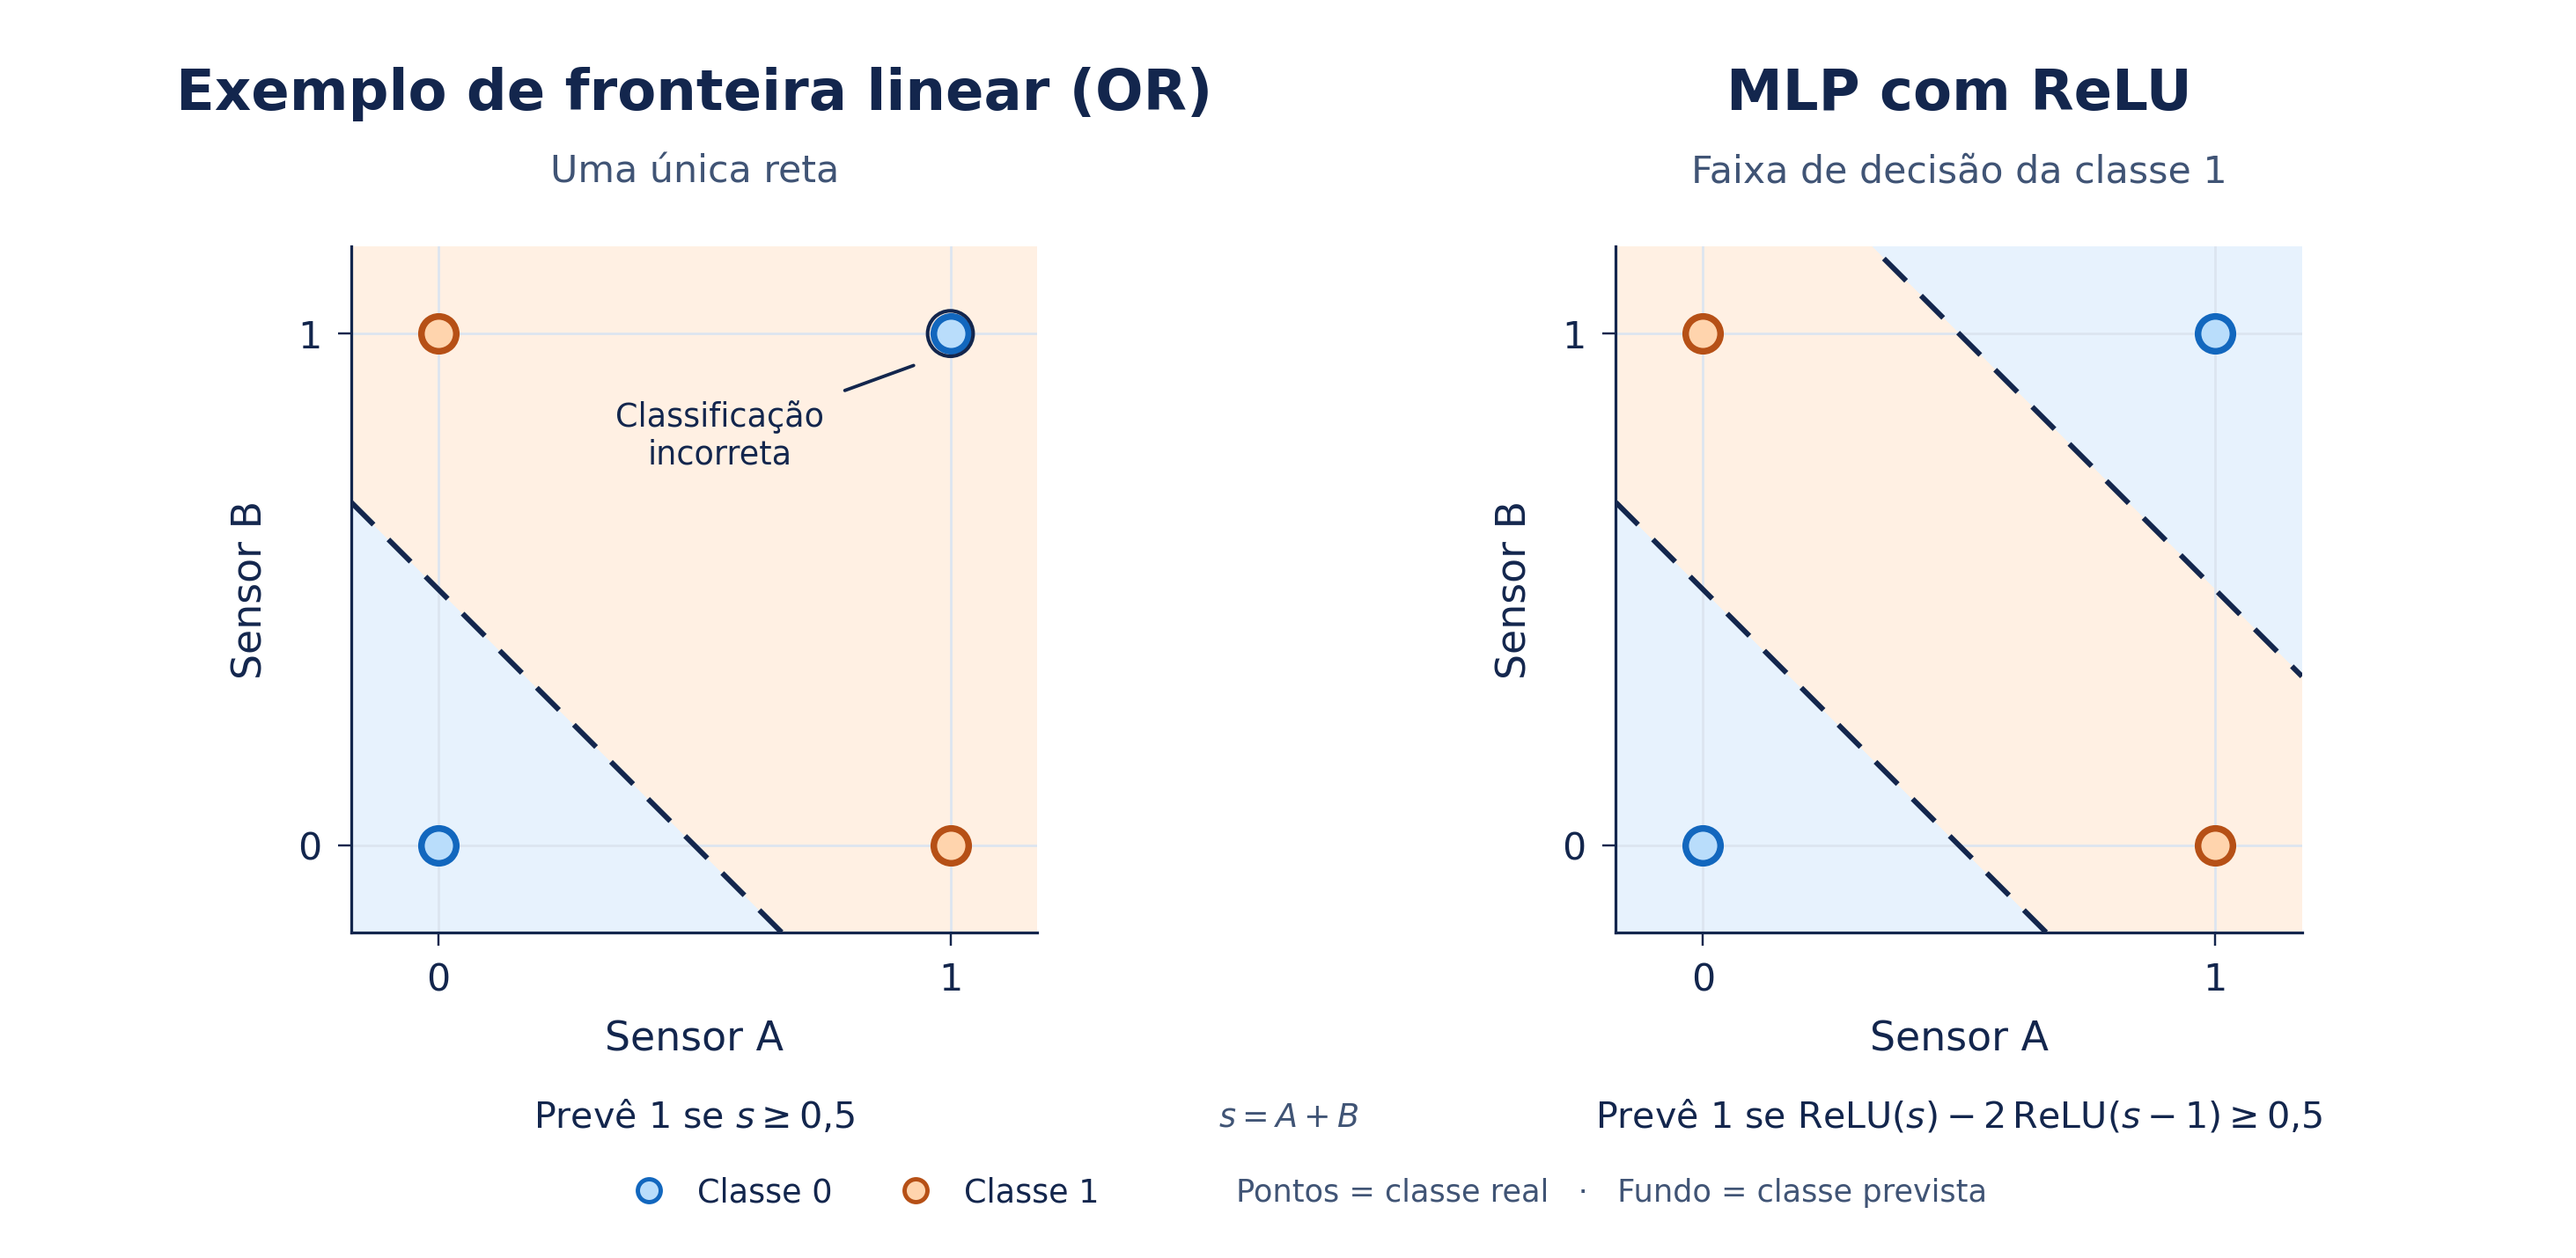
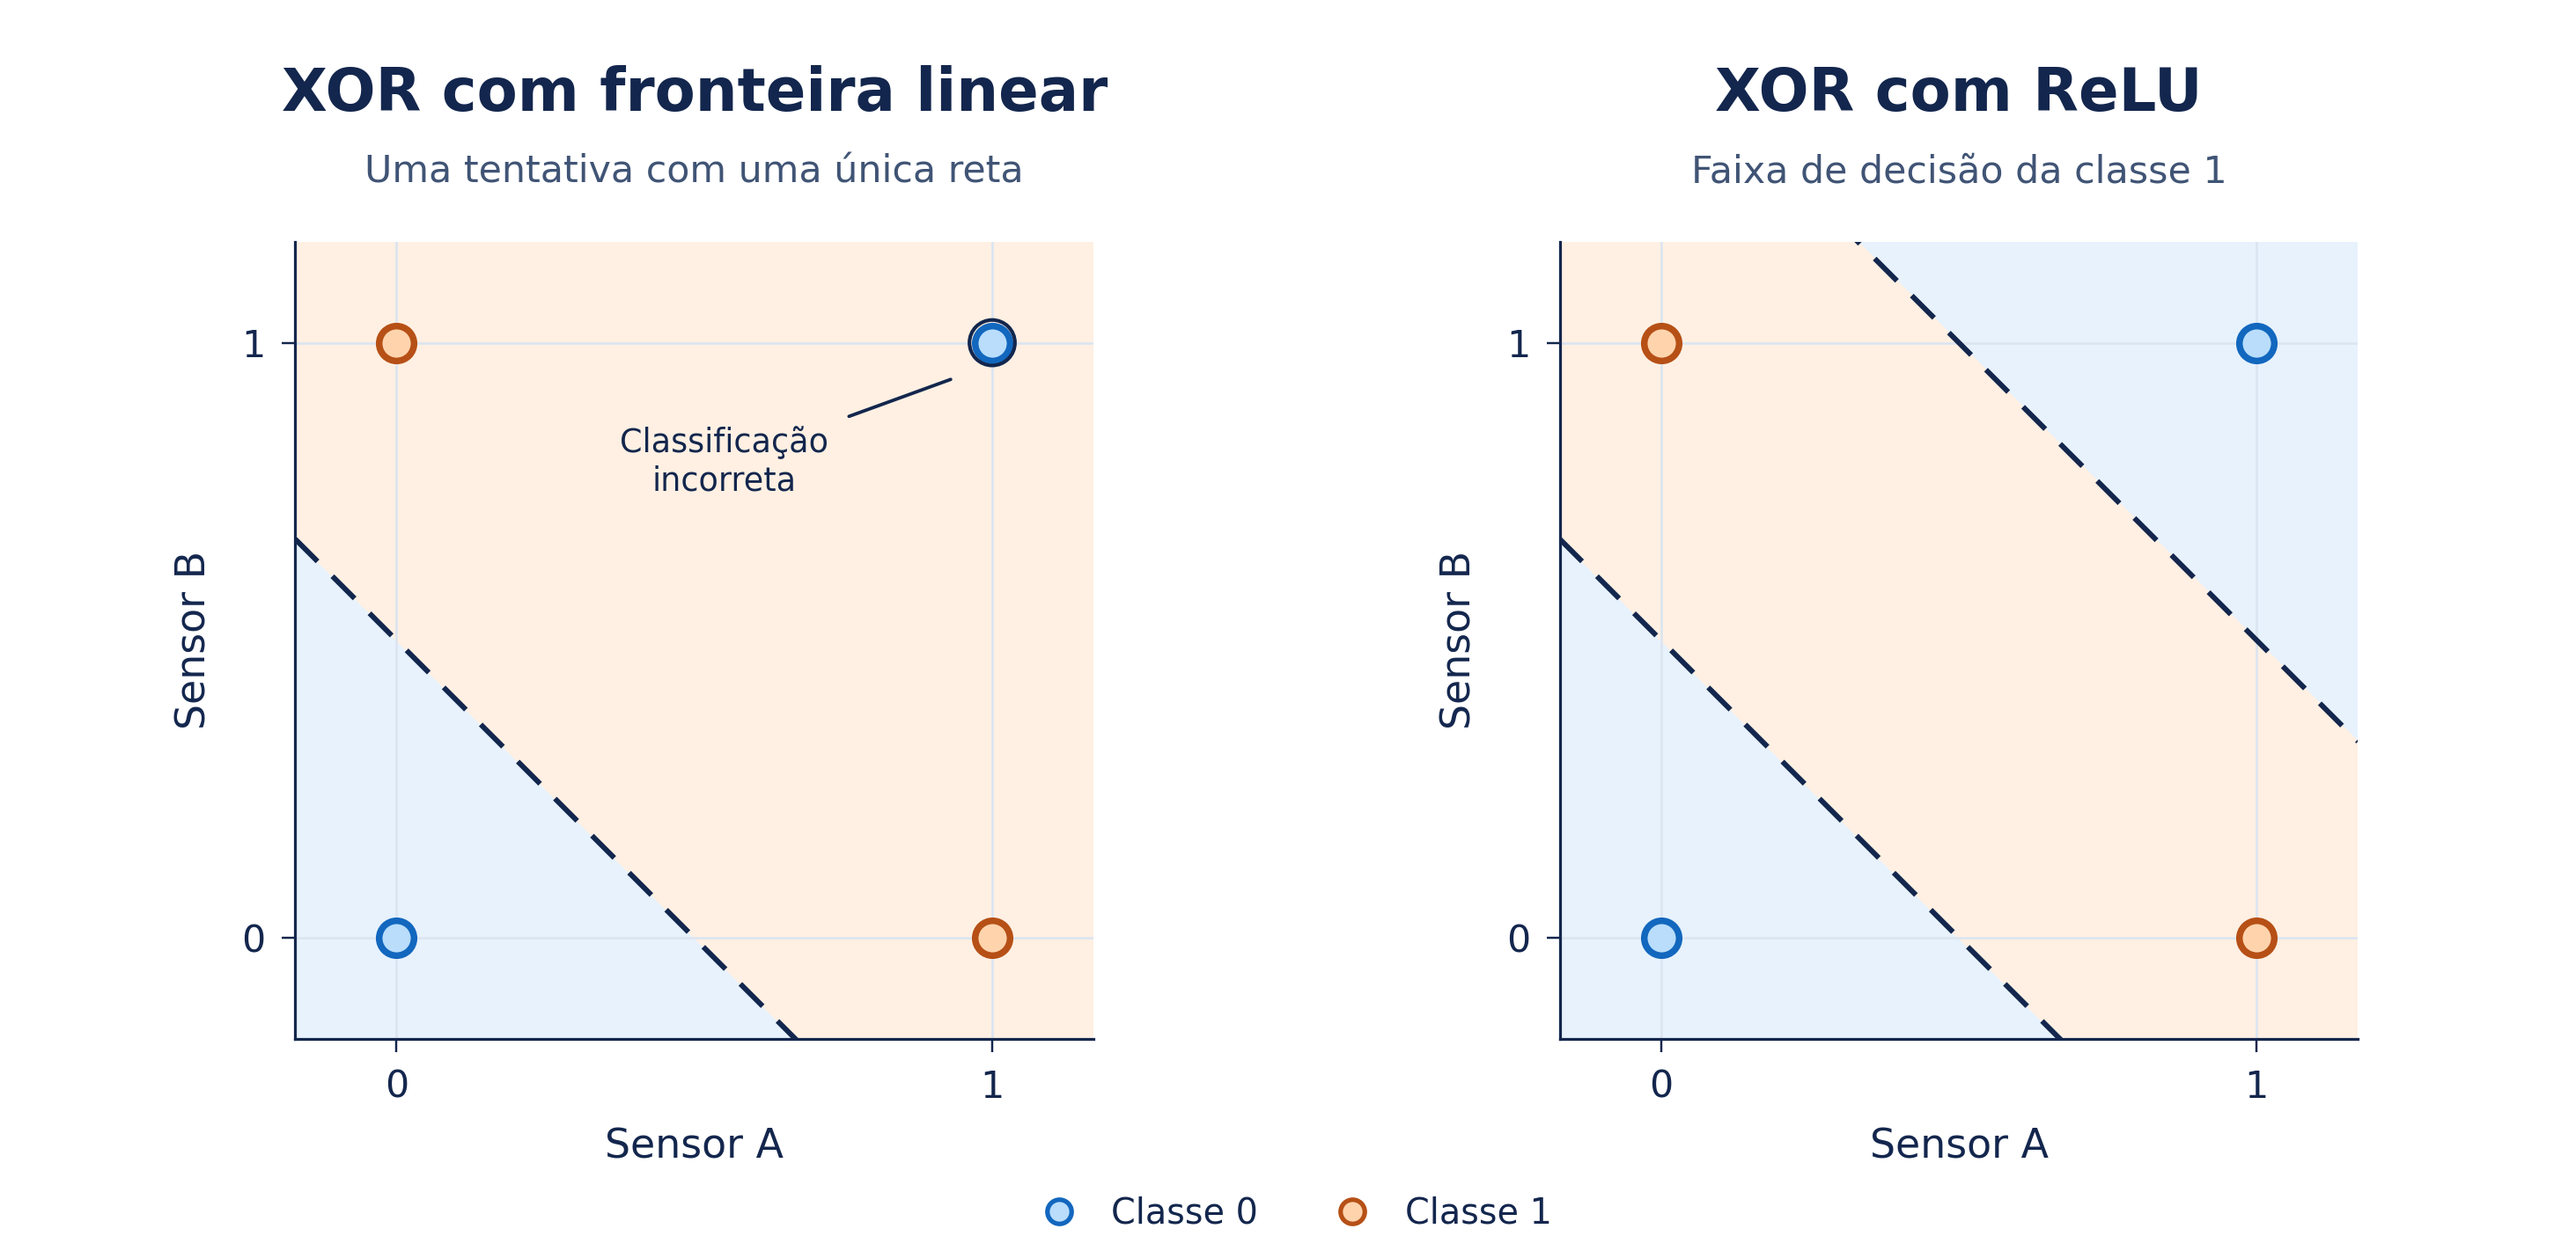
Atualiza a arquitetura e os notebooks da Aula 01

diff --git a/README.md b/README.md
@@ -17,7 +17,7 @@ Os exemplos das aulas 01 e 02 usam CPU e dados definidos nas próprias células.
 ## Aula 01 · Fundamentos e propagação direta
 
 - [Notebook da aula](aula01/aula01.ipynb). Leituras dos sensores em pandas, perceptron em NumPy e scikit-learn, e XOR em NumPy e TensorFlow/Keras.
-- [Atividade](aula01/atividade01.ipynb). Código base para implementar OR e AND e comparar as saídas e os erros com identidade e ReLU em NumPy e Keras.
+- [Atividade](aula01/atividade01.ipynb). Código base para implementar OR e AND e comparar as saídas com ReLU e os erros em NumPy e Keras.
 
 ## Aula 02 · Aprendizagem e retropropagação
 
